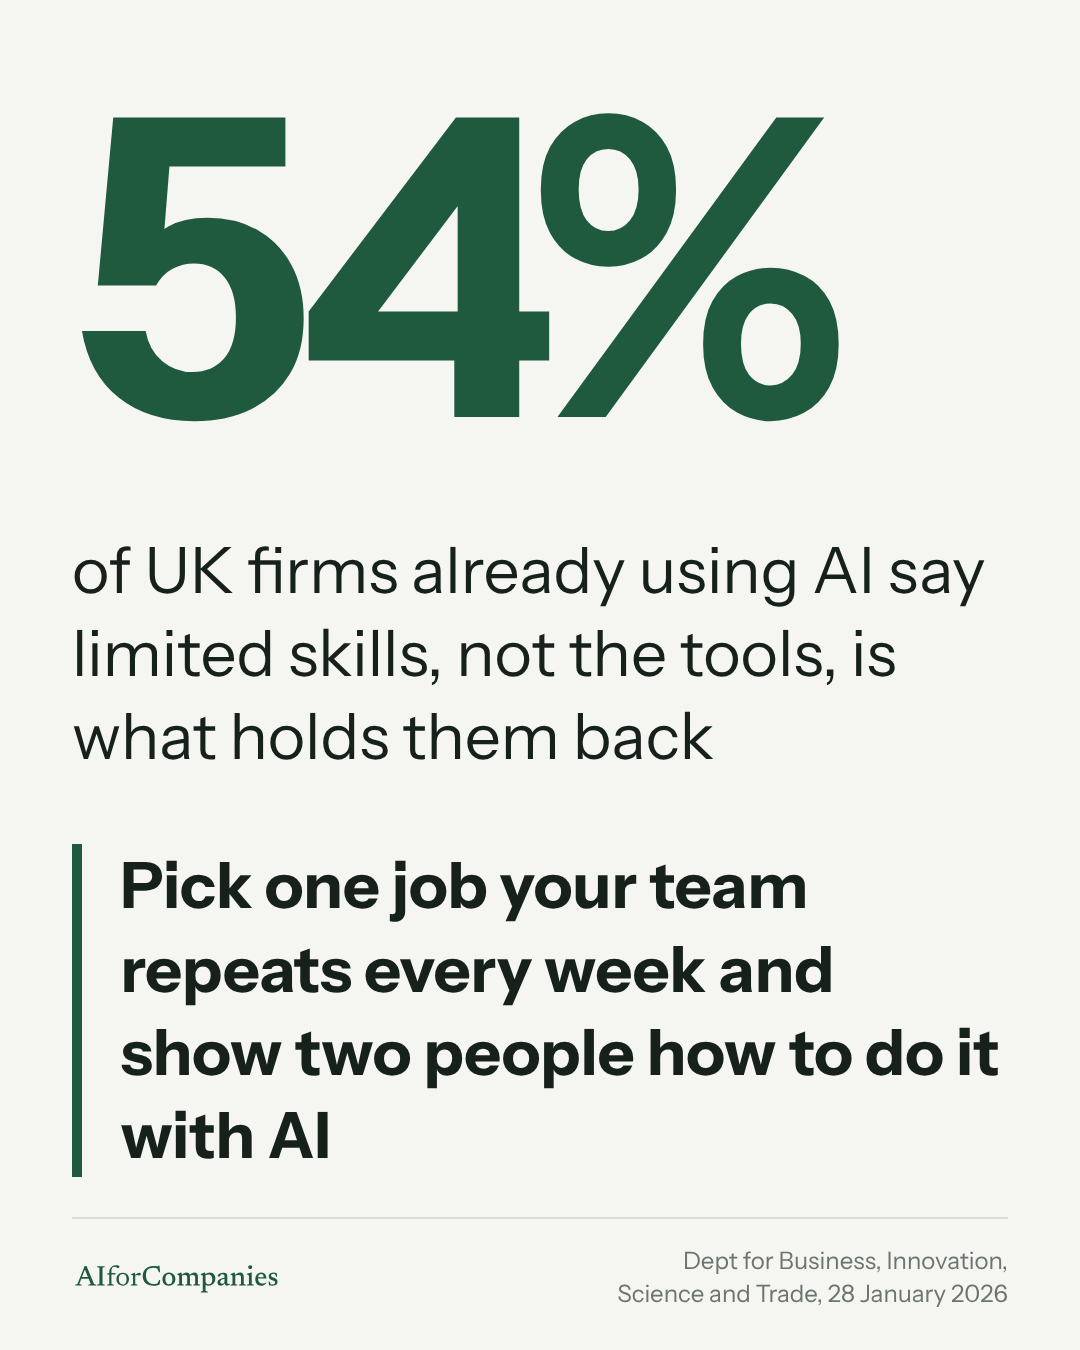
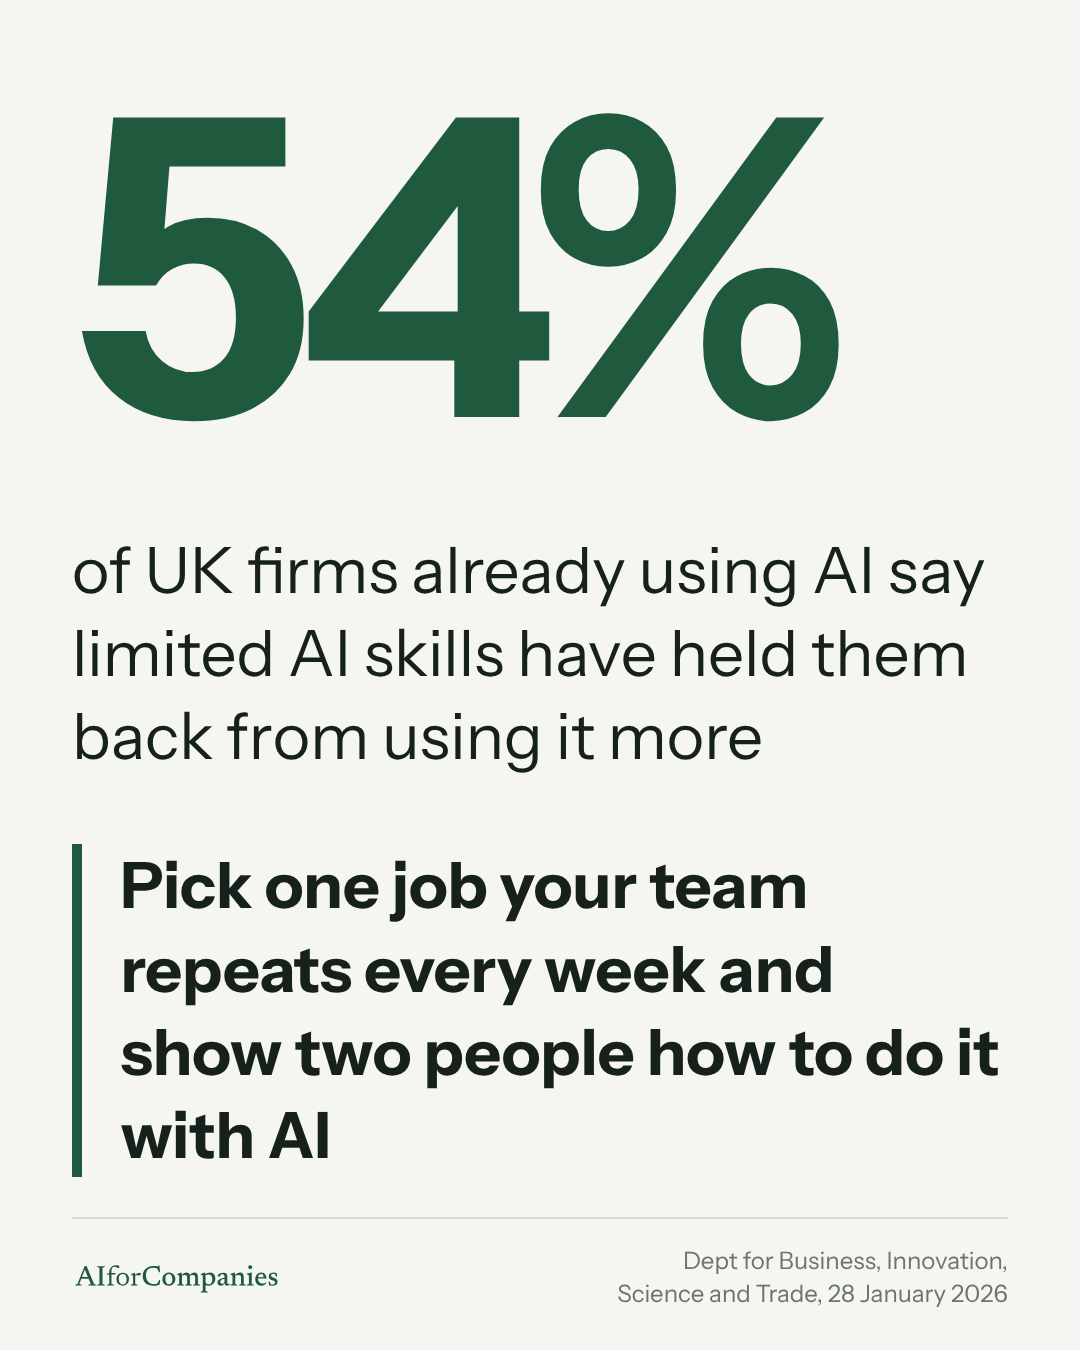
Corrected stat and roundup for 21 and 23 October; reconcile ledger to 16 October

Changed region(s): [[0.0611, 0.5289, 0.7028, 0.5911], [0.275, 0.4667, 0.9167, 0.4978]]

diff --git a/bank/posts/2026-10-23-three-changes.md b/bank/posts/2026-10-23-three-changes.md
@@ -1,11 +1,11 @@
 Three small changes you'll actually see on your own screen.
 
-ChatGPT. The camera can now scan several pages into one PDF, and you can ask questions about it. It's rolling out on iPhone. Next time a paper invoice lands on the counter, photograph it and ask what it says and what the total comes to. (OpenAI, ChatGPT release notes, 1 October 2026)
+ChatGPT. Point the camera at several pages in a row and ChatGPT now combines them into one PDF, ready to drop into a chat. Open the camera, tap the three dots and pick Scan. It's rolling out on iPhone. Next time a paper invoice lands on the counter, scan it and ask what the total comes to. (OpenAI, ChatGPT release notes, 1 October 2026)
 
-Copilot. If Copilot Chat shows in your browser, you can now ask it for a different answer rather than retyping the request. Useful on the drafts that come back nearly right. Ask for another go and say what was wrong with the first one. (Microsoft, Microsoft 365 Copilot release notes, 6 October 2026)
+Copilot. If Copilot Chat shows in your browser, its answers now carry a Try Again option, so you can get a different answer without retyping the request. It sits under More options at the end of an answer, next to Switch Model. Useful on the drafts that come back nearly right. (Microsoft, Microsoft 365 Copilot release notes, 6 October 2026)
 
-Gmail. If your team uses Trello, an email or a Google Chat message can now be turned into a Trello card. It's on all Google Workspace plans and personal Google accounts, and you need a Trello account. Good for the job that's been buried in a thread since Tuesday. (Google Workspace Updates, 6 October 2026)
+Gemini in Google Meet. If your firm is on Business Standard or Plus and you turn on Take notes for me during the call, the screen after it now offers to draft the follow-up email or add the actions to Google Tasks. Try it on your next supplier call and read the draft before it goes. (Google Workspace Updates, 12 October 2026)
 
-If you only try one, try the first. Don't scan anything with someone's personal details on it into a free account.
+If you only try one, try the first. Don't scan anything with someone's personal details on it into a free account, and tell people on a call before Meet takes notes.
 
 This is not legal advice.

diff --git a/bank/posts/2026-10-21-skills-not-tools.md b/bank/posts/2026-10-21-skills-not-tools.md
@@ -1,11 +1,11 @@
-54% of UK firms using AI say skills are what's holding them back.
+54% of UK firms using AI say limited skills have held them back.
 
-That's from AI Adoption Research, published by the Department for Business, Innovation, Science and Trade on 28 January 2026. It surveyed 3,500 UK businesses with five or more staff by phone. Of the 700 already using AI, 54% said limited AI skills had held them back from using it more widely.
+That's from AI Adoption Research, published by the Department for Business, Innovation, Science and Trade on 28 January 2026. It interviewed 3,500 UK private sector businesses with at least five staff, by phone. Of the 700 already using AI, 54% said limited AI skills, expertise or knowledge had hindered them in adopting it more widely.
 
-Line up four firms your size that have already started. Two of them say what is in the way is what their people know, not the software.
+Line up four firms your size that have already started. Two of them say limited AI skills have got in the way.
 
-The software is the part everyone budgets for. Our read is that the cheapest move is not another licence.
+Tools matter too, and the same research puts a lack of them close behind. Our read is that the skills half is the cheaper half to fix, and it's the half nobody budgets for.
 
 Pick one job your team repeats every week: the chaser, the handover note, the weekly update. Show two people how to do it with the assistant you already pay for, and give it a month.
 
-Source: Dept for Business, Innovation, Science and Trade, AI Adoption Research, 28 January 2026. 3,500 telephone interviews, fieldwork February to May 2025; the 54% is based on the 700 businesses using AI. https://www.gov.uk/government/publications/ai-adoption-research/ai-adoption-research/
+Source: Dept for Business, Innovation, Science and Trade, AI Adoption Research, 28 January 2026. 3,500 telephone interviews, fieldwork 12 February to 2 May 2025; the 54% is Figure 23, based on the 700 businesses using AI. https://www.gov.uk/government/publications/ai-adoption-research/ai-adoption-research/
